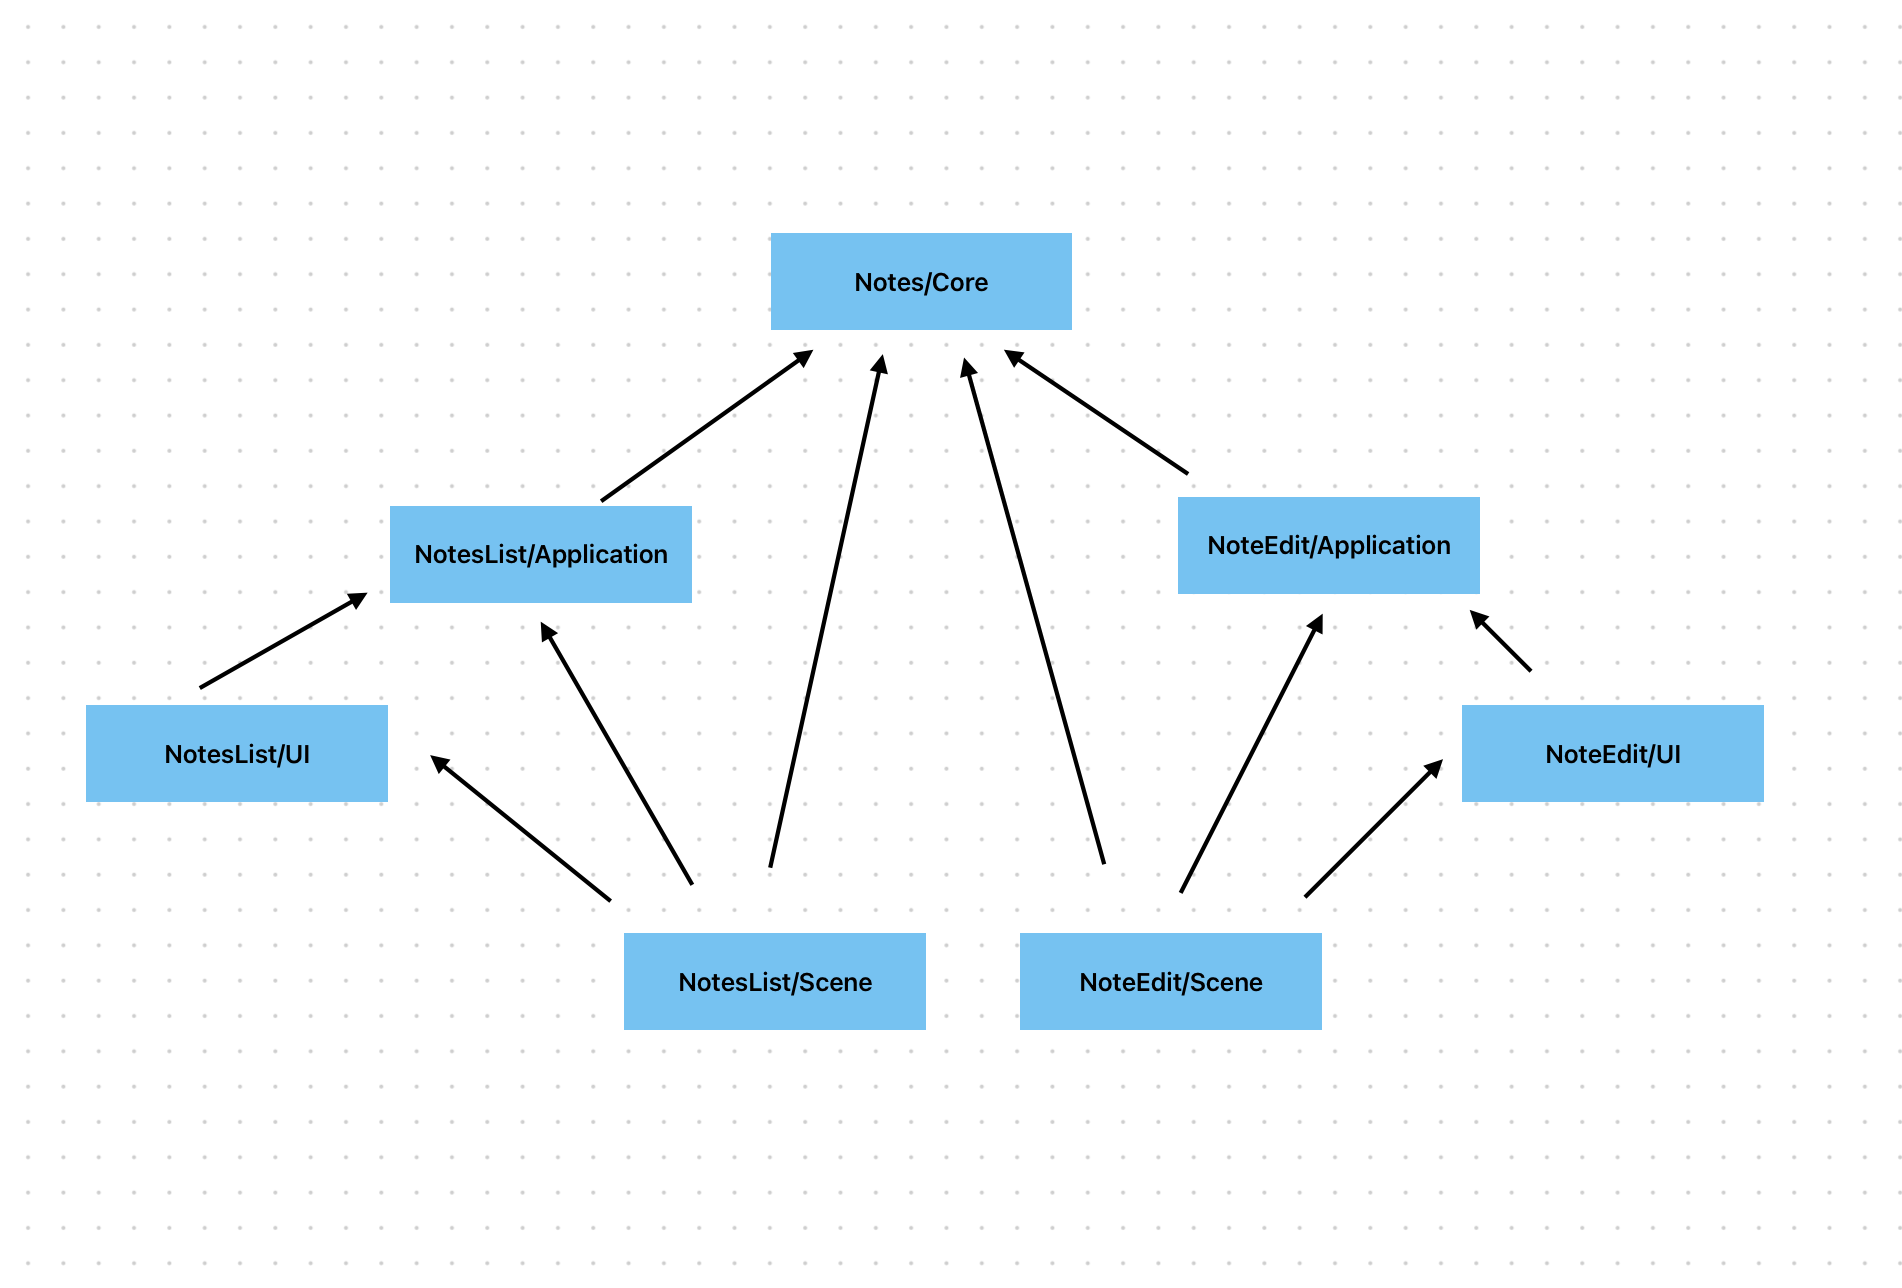
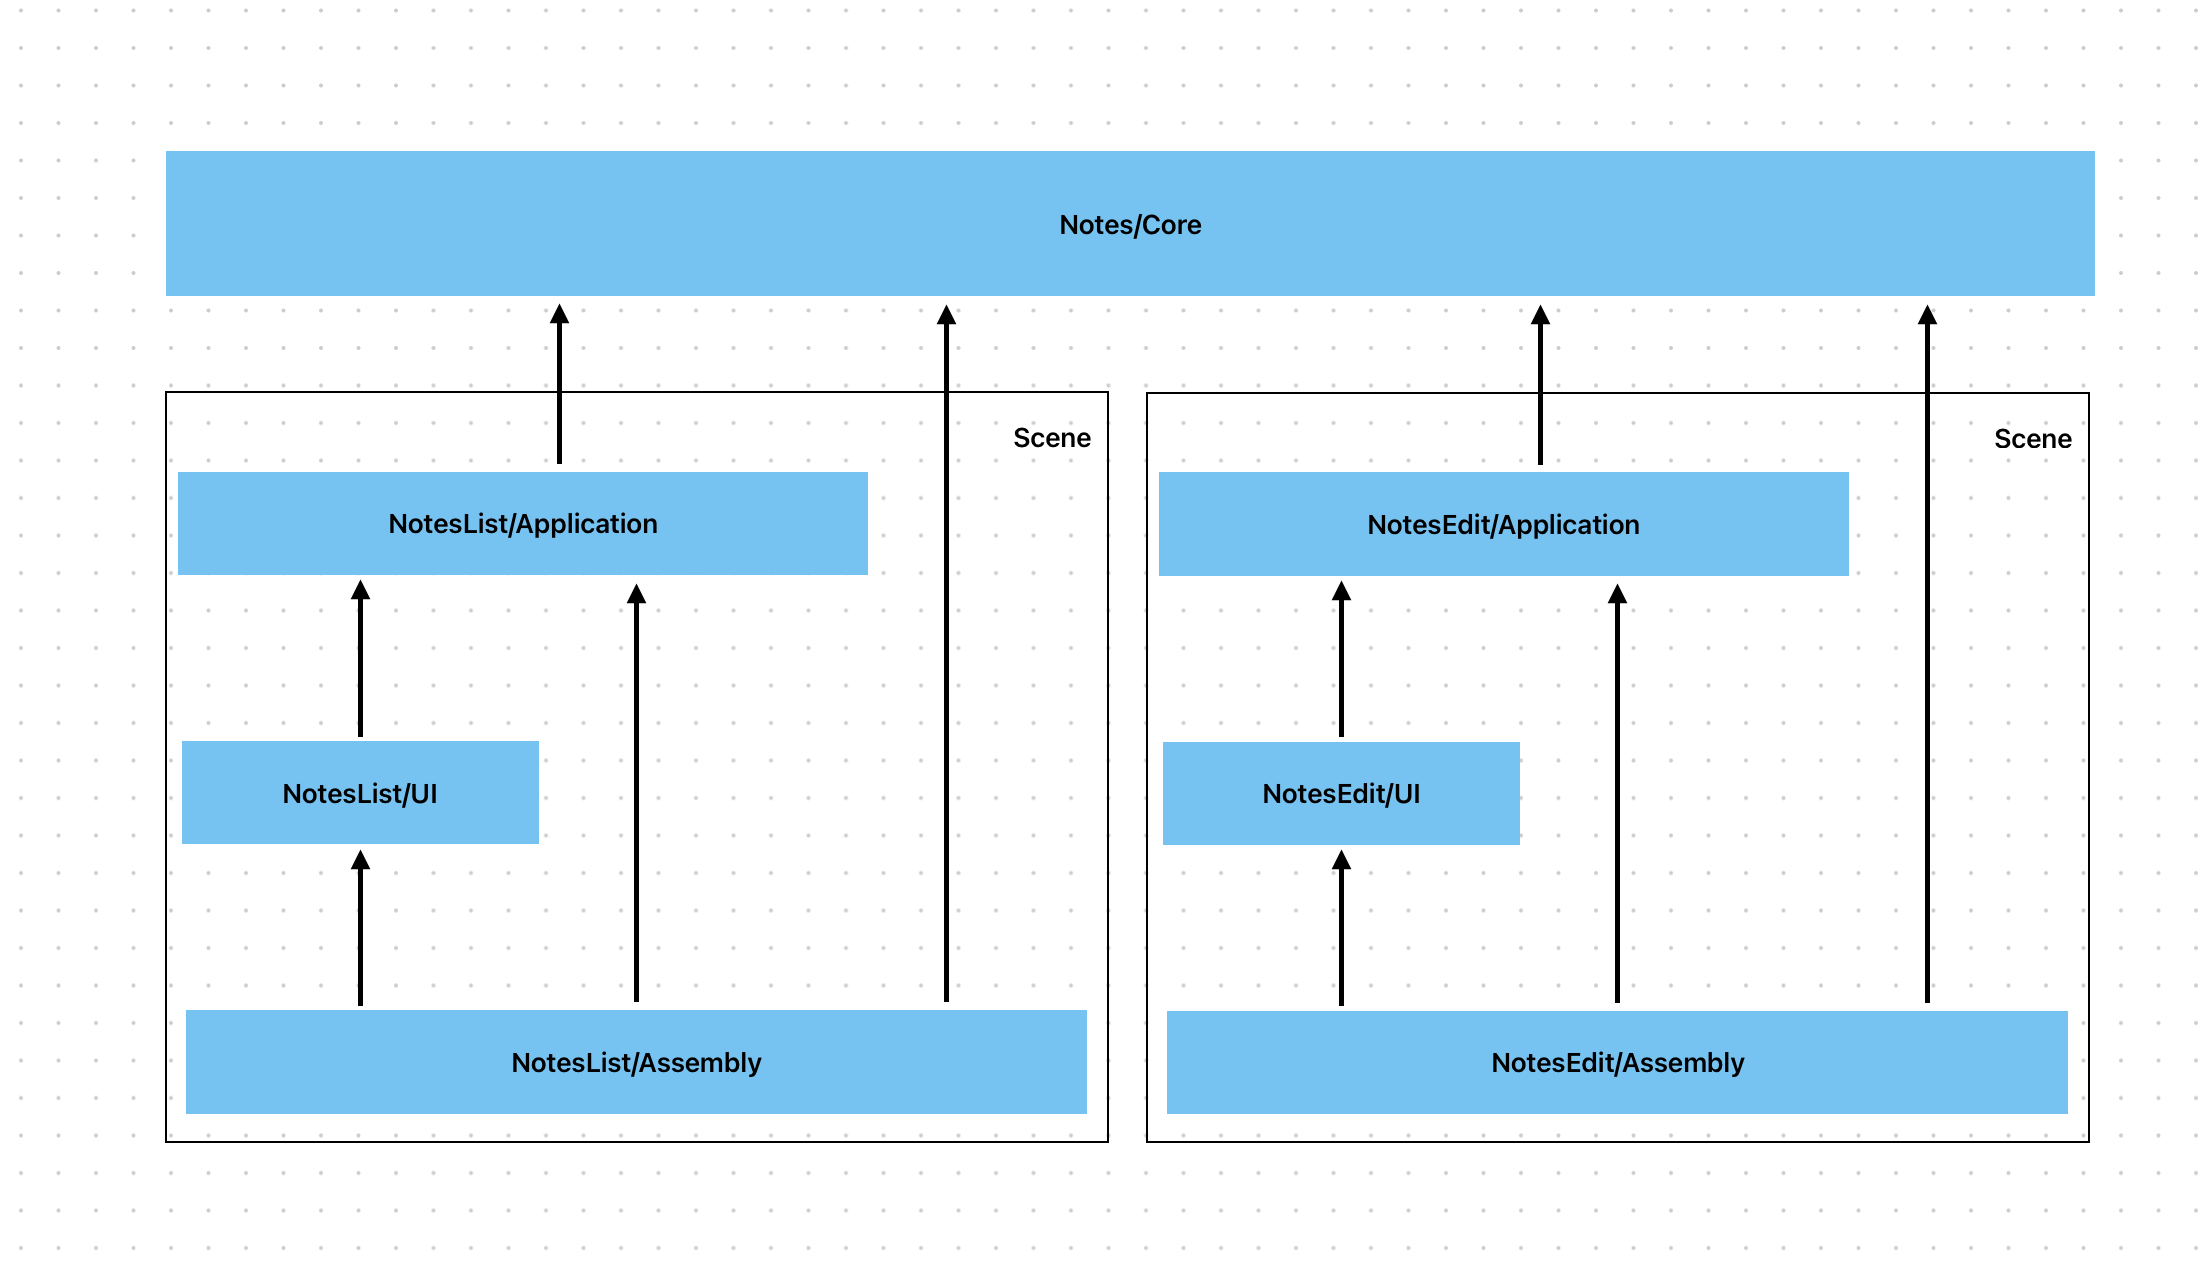
scenes

diff --git a/Modules/Sources/Products/Notes/NeedleGenerated.swift b/Modules/Sources/Products/Notes/NeedleGenerated.swift
@@ -3,9 +3,11 @@
 import Foundation
 import NeedleFoundation
 import NoteEditApplication
+import NoteEditAssembly
 import NoteEditScene
 import NotesCore
 import NotesListApplication
+import NotesListAssembly
 import NotesListScene
 
 // swiftlint:disable unused_declaration
@@ -21,7 +23,7 @@ private func parent1(_ component: NeedleFoundation.Scope) -> NeedleFoundation.Sc
 
 #if !NEEDLE_DYNAMIC
 
-private class NotesListDependencyecb0d872d282a504a53aProvider: NotesListDependency {
+private class NotesListDependency2ac0ecde6263307d829eProvider: NotesListDependency {
     var notesProvider: NotesProvider {
         return notesComponent.notesProvider
     }
@@ -30,11 +32,11 @@ private class NotesListDependencyecb0d872d282a504a53aProvider: NotesListDependen
         self.notesComponent = notesComponent
     }
 }
-/// ^->NotesComponent->NotesListDepComponent
-private func factory61585c1626df66ba32d262654e1cb4236443be67(_ component: NeedleFoundation.Scope) -> AnyObject {
-    return NotesListDependencyecb0d872d282a504a53aProvider(notesComponent: parent1(component) as! NotesComponent)
+/// ^->NotesComponent->NotesListComponent
+private func factorybd6204e5520a4840886162654e1cb4236443be67(_ component: NeedleFoundation.Scope) -> AnyObject {
+    return NotesListDependency2ac0ecde6263307d829eProvider(notesComponent: parent1(component) as! NotesComponent)
 }
-private class NoteEditDependency36675e35eb09466167a6Provider: NoteEditDependency {
+private class NoteEditDependency054c984a1b3f758e8b3bProvider: NoteEditDependency {
     var notesProvider: NotesProvider {
         return notesComponent.notesProvider
     }
@@ -43,26 +45,26 @@ private class NoteEditDependency36675e35eb09466167a6Provider: NoteEditDependency
         self.notesComponent = notesComponent
     }
 }
-/// ^->NotesComponent->NoteEditDepComponent
-private func factory33f34f6b0c35f1d4590962654e1cb4236443be67(_ component: NeedleFoundation.Scope) -> AnyObject {
-    return NoteEditDependency36675e35eb09466167a6Provider(notesComponent: parent1(component) as! NotesComponent)
+/// ^->NotesComponent->NoteEditComponent
+private func factoryc7fd598a8e0da481c3a562654e1cb4236443be67(_ component: NeedleFoundation.Scope) -> AnyObject {
+    return NoteEditDependency054c984a1b3f758e8b3bProvider(notesComponent: parent1(component) as! NotesComponent)
 }
 
 #else
 extension NotesComponent: Registration {
     public func registerItems() {
 
-        localTable["notesListSceneAssembly-NotesListSceneAssembly"] = { [unowned self] in self.notesListSceneAssembly as Any }
-        localTable["noteEditSceneAssembly-NoteEditSceneAssembly"] = { [unowned self] in self.noteEditSceneAssembly as Any }
+        localTable["notesListAssembly-NotesListAssembly"] = { [unowned self] in self.notesListAssembly as Any }
+        localTable["noteEditAssembly-NoteEditAssembly"] = { [unowned self] in self.noteEditAssembly as Any }
         localTable["notesProvider-NotesProvider"] = { [unowned self] in self.notesProvider as Any }
     }
 }
-extension NotesListDepComponent: Registration {
+extension NotesListComponent: Registration {
     public func registerItems() {
         keyPathToName[\NotesListDependency.notesProvider] = "notesProvider-NotesProvider"
     }
 }
-extension NoteEditDepComponent: Registration {
+extension NoteEditComponent: Registration {
     public func registerItems() {
         keyPathToName[\NoteEditDependency.notesProvider] = "notesProvider-NotesProvider"
     }
@@ -84,8 +86,8 @@ private func registerProviderFactory(_ componentPath: String, _ factory: @escapi
 
 @inline(never) private func register1() {
     registerProviderFactory("^->NotesComponent", factoryEmptyDependencyProvider)
-    registerProviderFactory("^->NotesComponent->NotesListDepComponent", factory61585c1626df66ba32d262654e1cb4236443be67)
-    registerProviderFactory("^->NotesComponent->NoteEditDepComponent", factory33f34f6b0c35f1d4590962654e1cb4236443be67)
+    registerProviderFactory("^->NotesComponent->NotesListComponent", factorybd6204e5520a4840886162654e1cb4236443be67)
+    registerProviderFactory("^->NotesComponent->NoteEditComponent", factoryc7fd598a8e0da481c3a562654e1cb4236443be67)
 }
 #endif
 

diff --git a/Modules/Package.swift b/Modules/Package.swift
@@ -27,56 +27,56 @@ let package = Package(
             path: "Sources/Notes/Core"
         ),
 
-        // NotesList Component
+        // NotesList Scene
         .target(
             name: "NotesListApplication",
             dependencies: [
                 "NotesCore",
-                .product(name: "NeedleFoundation", package: "Needle"),
             ],
-            path: "Sources/Notes/Components/NotesList/Application"
+            path: "Sources/Notes/Scenes/NotesList/Application"
         ),
         .target(
             name: "NotesListUI",
             dependencies: [
                 "NotesListApplication",
             ],
-            path: "Sources/Notes/Components/NotesList/UI"
+            path: "Sources/Notes/Scenes/NotesList/UI"
         ),
         .target(
-            name: "NotesListScene",
+            name: "NotesListAssembly",
             dependencies: [
                 "NotesListApplication",
                 "NotesListUI",
-                "NotesCore"
+                "NotesCore",
+                .product(name: "NeedleFoundation", package: "Needle"),
             ],
-            path: "Sources/Notes/Components/NotesList/Scene"
+            path: "Sources/Notes/Scenes/NotesList/Assembly"
         ),
 
-        // NoteEdit Component
+        // NoteEdit Scene
         .target(
             name: "NoteEditApplication",
             dependencies: [
                 "NotesCore",
-                .product(name: "NeedleFoundation", package: "Needle"),
             ],
-            path: "Sources/Notes/Components/NoteEdit/Application"
+            path: "Sources/Notes/Scenes/NoteEdit/Application"
         ),
         .target(
             name: "NoteEditUI",
             dependencies: [
                 "NoteEditApplication",
             ],
-            path: "Sources/Notes/Components/NoteEdit/UI"
+            path: "Sources/Notes/Scenes/NoteEdit/UI"
         ),
         .target(
-            name: "NoteEditScene",
+            name: "NoteEditAssembly",
             dependencies: [
                 "NoteEditApplication",
                 "NoteEditUI",
                 "NotesCore",
+                .product(name: "NeedleFoundation", package: "Needle"),
             ],
-            path: "Sources/Notes/Components/NoteEdit/Scene"
+            path: "Sources/Notes/Scenes/NoteEdit/Assembly"
         ),
 
         // Notes Product
@@ -84,10 +84,12 @@ let package = Package(
             name: "NotesProduct",
             dependencies: [
                 "NotesCore",
-                "NotesListUI",
                 "NotesListApplication",
-                "NotesListScene",
-                "NoteEditScene",
+                "NotesListUI",
+                "NotesListAssembly",
+                "NoteEditApplication",
+                "NoteEditUI",
+                "NoteEditAssembly",
                 .product(name: "NeedleFoundation", package: "Needle"),
             ],
             path: "Sources/Products/Notes"

diff --git a/Modules/Sources/Products/Notes/NotesComponent.swift b/Modules/Sources/Products/Notes/NotesComponent.swift
@@ -2,9 +2,9 @@ import Foundation
 import NeedleFoundation
 import NotesCore
 import NotesListApplication
-import NotesListScene
+import NotesListAssembly
 import NoteEditApplication
-import NoteEditScene
+import NoteEditAssembly
 
 public protocol NotesDependencies {
 }
@@ -17,12 +17,12 @@ public class NotesComponent: BootstrapComponent {
         self.dependencies = dependencies
     }
 
-    public var notesListSceneAssembly: NotesListSceneAssembly {
-        NotesListSceneAssembly(diComponentProvider: NotesListDIComponent(parent: self))
+    public var notesListAssembly: NotesListAssembly {
+        NotesListAssembly(сomponentProvider: NotesListComponent(parent: self))
     }
 
-    public var noteEditSceneAssembly: NoteEditSceneAssembly {
-        NoteEditSceneAssembly(diComponentProvider: NoteEditDIComponent(parent: self))
+    public var noteEditAssembly: NoteEditAssembly {
+        NoteEditAssembly(сomponentProvider: NoteEditComponent(parent: self))
     }
 
     public var notesProvider: NotesProvider { shared { NotesProvider() } }

diff --git a/Modules/Sources/Notes/Scenes/NoteEdit/Assembly/NoteEditAssembly.swift b/Modules/Sources/Notes/Scenes/NoteEdit/Assembly/NoteEditAssembly.swift
@@ -1,0 +1,23 @@
+import Foundation
+import NotesCore
+import NoteEditApplication
+import NoteEditUI
+
+public class NoteEditAssembly {
+
+    private let сomponentProvider: () -> (NoteEditComponent)
+
+    public init(сomponentProvider: @escaping @autoclosure () -> (NoteEditComponent)) {
+        self.сomponentProvider = сomponentProvider
+    }
+
+    public func assemble(
+        note: Note,
+        delegate: NoteEditViewModelDelegate
+    ) -> NoteEditView {
+        let сomponent = сomponentProvider()
+        let viewModel = NoteEditViewModel(note: note, notesProvider: сomponent.notesProvider)
+        viewModel.delegate = delegate
+        return NoteEditView(viewModel: viewModel)
+    }
+}

diff --git a/Modules/Sources/Notes/Scenes/NotesList/Assembly/NotesListAssembly.swift b/Modules/Sources/Notes/Scenes/NotesList/Assembly/NotesListAssembly.swift
@@ -1,0 +1,22 @@
+import Foundation
+import NotesCore
+import NotesListApplication
+import NotesListUI
+
+public class NotesListAssembly {
+
+    private let сomponentProvider: () -> (NotesListComponent)
+
+    public init(сomponentProvider: @escaping @autoclosure () -> (NotesListComponent)) {
+        self.сomponentProvider = сomponentProvider
+    }
+
+    public func assemble(
+        delegate: NotesListViewModelDelegate
+    ) -> NotesListView {
+        let сomponent = сomponentProvider()
+        let viewModel = NotesListViewModel(notesProvider: сomponent.notesProvider)
+        viewModel.delegate = delegate
+        return NotesListView(viewModel: viewModel)
+    }
+}

diff --git a/TestLayers/TestLayers/SceneDelegate.swift b/TestLayers/TestLayers/SceneDelegate.swift
@@ -27,7 +27,7 @@ class SceneDelegate: UIResponder, UIWindowSceneDelegate {
         // This delegate does not imply the connecting scene or session are new (see `application:configurationForConnectingSceneSession` instead).
         guard let windowScene = (scene as? UIWindowScene) else { return }
 
-        let notesListView = notesProductComponent.notesListSceneAssembly.assemble(delegate: self)
+        let notesListView = notesProductComponent.notesListAssembly.assemble(delegate: self)
 
         window = UIWindow(windowScene: windowScene)
         window?.rootViewController = UIHostingController(rootView: notesListView)

diff --git a/Modules/Sources/Notes/Scenes/NotesList/Assembly/NotesListComponent.swift b/Modules/Sources/Notes/Scenes/NotesList/Assembly/NotesListComponent.swift
@@ -5,5 +5,5 @@ public protocol NotesListDependency: Dependency {
     var notesProvider: NotesProvider { get }
 }
 
-public class NotesListDIComponent: Component<NotesListDependency> {
+public class NotesListComponent: Component<NotesListDependency> {
 }

diff --git a/Modules/Sources/Notes/Scenes/NoteEdit/Assembly/NoteEditComponent.swift b/Modules/Sources/Notes/Scenes/NoteEdit/Assembly/NoteEditComponent.swift
@@ -5,5 +5,5 @@ public protocol NoteEditDependency: Dependency {
     var notesProvider: NotesProvider { get }
 }
 
-public class NoteEditDIComponent: Component<NoteEditDependency> {
+public class NoteEditComponent: Component<NoteEditDependency> {
 }
